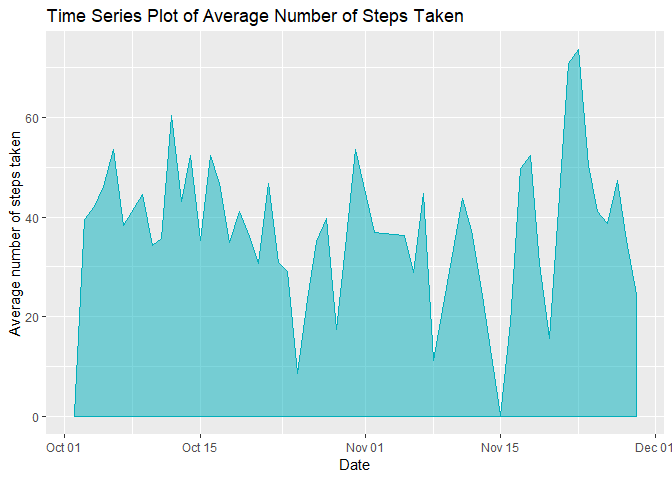
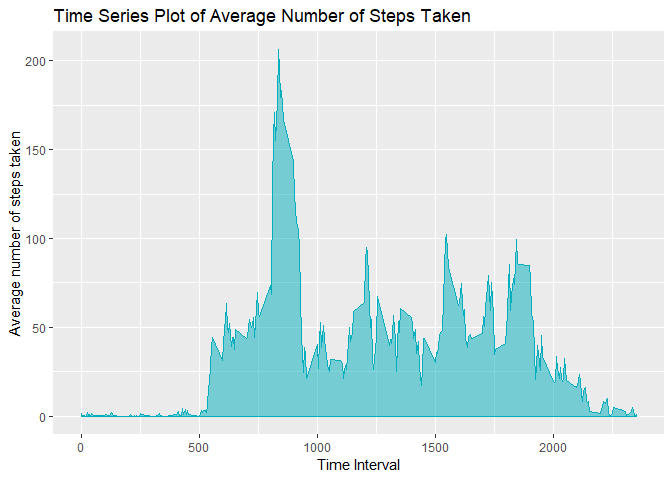
Fixed the time series plot

diff --git a/PA1_template.html b/PA1_template.html
@@ -309,12 +309,13 @@ ggplot(actv_summary_date, aes(x=date)) +
 <ol style="list-style-type: decimal">
 <li>Make a time series plot (i.e. type=“l”) of the 5-minute interval (x-axis) and the average number of steps taken, averaged across all days (y-axis)</li>
 </ol>
-<pre class="r"><code>ggplot(actv_summary_date, aes(date, steps_mean)) + 
+<pre class="r"><code>actv_summary_inter &lt;- activity %&gt;% group_by(interval) %&gt;% summarise(steps_mean= mean(steps, na.rm=TRUE))
+
+ggplot(actv_summary_inter, aes(interval, steps_mean)) + 
   geom_area(alpha = 0.5, color=&quot;#00AFBB&quot;, fill=&quot;#00AFBB&quot;) +
-  labs(x = &quot;Date&quot;,y = &quot;Average number of steps taken&quot;,
+  labs(x = &quot;Time Interval&quot;,y = &quot;Average number of steps taken&quot;,
        title= &quot;Time Series Plot of Average Number of Steps Taken&quot;) </code></pre>
-<pre><code>## Warning: Removed 8 rows containing missing values (position_stack).</code></pre>
[2 lines of base64/hex data omitted]
 </div>
 <div id="q5---the-5-minute-interval-that-on-average-contains-the-maximum-number-of-steps" class="section level3">
 <h3>Q5 - The 5-minute interval that, on average, contains the maximum number of steps</h3>

diff --git a/PA1_template.md b/PA1_template.md
@@ -185,14 +185,12 @@ ggplot(actv_summary_date, aes(x=date)) +
 
 
 ```r
-ggplot(actv_summary_date, aes(date, steps_mean)) + 
-  geom_area(alpha = 0.5, color="#00AFBB", fill="#00AFBB") +
-  labs(x = "Date",y = "Average number of steps taken",
-       title= "Time Series Plot of Average Number of Steps Taken") 
-```
+actv_summary_inter <- activity %>% group_by(interval) %>% summarise(steps_mean= mean(steps, na.rm=TRUE))
 
-```
-## Warning: Removed 8 rows containing missing values (position_stack).
+ggplot(actv_summary_inter, aes(interval, steps_mean)) + 
+  geom_area(alpha = 0.5, color="#00AFBB", fill="#00AFBB") +
+  labs(x = "Time Interval",y = "Average number of steps taken",
+       title= "Time Series Plot of Average Number of Steps Taken") 
 ```
 
 ![](PA1_template_files/figure-html/unnamed-chunk-6-1.png)<!-- -->
